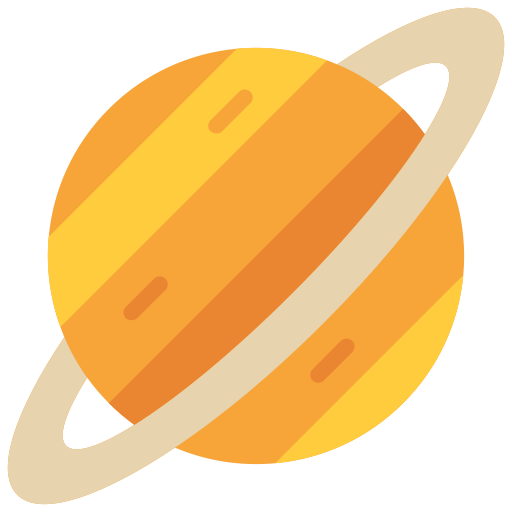
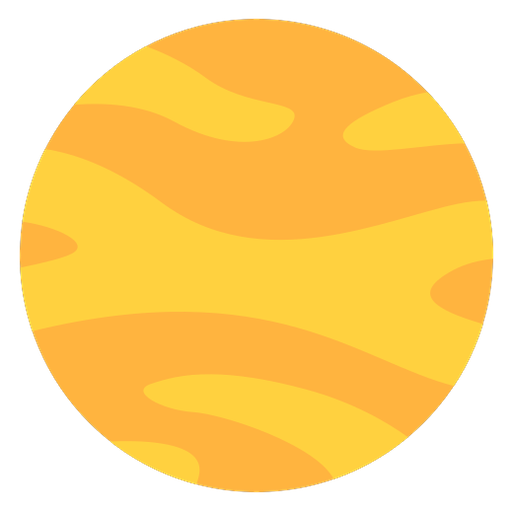
gli anelli di saturno e urano

diff --git a/giochi/slot/slot.py b/giochi/slot/slot.py
@@ -633,10 +633,28 @@ def tema():
     return B.CFG.get("slot_tema", "classica")
 
 
+NUDE = {}
+
+
 def figura(nome, misura):
-    """Il disegno di un simbolo, della misura voluta. Se la PNG del tema
-    non c'e' si disegna un segnaposto: cosi' la macchina si prova anche
-    senza grafica."""
+    """Il disegno di un simbolo come si vede nel gioco: la palla con il
+    suo anello, se ne ha uno."""
+    chiave = (tema(), nome, misura)
+    if chiave in NUDE:
+        return NUDE[chiave]
+    if not anello_di(nome):
+        NUDE[chiave] = figura_nuda(nome, misura)
+        return NUDE[chiave]
+    palla = figura_nuda(nome, misura_palla(nome, misura))
+    NUDE[chiave] = con_anello(nome, palla, misura)
+    return NUDE[chiave]
+
+
+def figura_nuda(nome, misura):
+    """La palla e basta, senza anello: e' da questa che si fanno i
+    fotogrammi della rotazione, se no girerebbe anche l'anello.
+    Se la PNG del tema non c'e' si disegna un segnaposto, cosi' la
+    macchina si prova anche senza grafica."""
     chiave = (tema(), nome, misura)
     if chiave in FIGURE:
         return FIGURE[chiave]
@@ -951,10 +969,7 @@ ANIMAZIONI = {
         "ferro": {"gira": 0.28},                 # Proxima, una stella
         "quadrifoglio": {"gira": 0.78},          # Giove, 9 ore e 55
         "carte": {"gira": 0.50},                 # Terra, 24 ore
-        # saturno per ora sta fermo: l'anello non e' parte della sfera e
-        # girando si accartoccia. Va staccato dalla palla e rimesso
-        # sopra, fermo -- si fa, ma e' un lavoro a parte
-        # "roulette": {"gira": 0.74},
+        "roulette": {"gira": 0.74},           # Saturno, 10 ore e mezza
         # la cometa non e' una sfera: fluttua e lascia la scia
         "fiches": {"onda": 0.05, "scia": 60, "verso": (-1.0, 0.30),
                    "colore": (150, 200, 255)},
@@ -968,11 +983,120 @@ def animazione(nome):
     return ANIMAZIONI.get(tema(), {}).get(nome)
 
 
+# ------------------------------------------------------------ gli anelli
+# Saturno e Urano si scaricano come palle lisce e l'anello glielo
+# disegniamo noi: se stesse dentro la PNG girerebbe insieme al pianeta,
+# che e' sbagliato. Cosi' invece resta fermo mentre la palla ruota.
+#   fuori/dentro  dove comincia e dove finisce, in raggi del pianeta
+#   schiaccia     quanto e' di taglio (0 = visto di spigolo, 1 = di faccia)
+#   inclina       di quanti gradi e' storto. Urano e' coricato su un
+#                 fianco per davvero, quindi i suoi anelli sono verticali
+#   divisione     dove passa la riga vuota dentro l'anello (0 = nessuna)
+ANELLI = {
+    "nuova": {
+        "roulette": {"fuori": 2.15, "dentro": 1.30, "schiaccia": 0.44,
+                     "inclina": -11, "colore": (228, 206, 158),
+                     "opaco": 235, "divisione": 0.0},
+        "fiori": {"fuori": 1.72, "dentro": 1.34, "schiaccia": 0.30,
+                  "inclina": 80, "colore": (168, 202, 222),
+                  "opaco": 165, "divisione": 0.0},
+    },
+}
+
+
+def anello_di(nome):
+    return ANELLI.get(tema(), {}).get(nome)
+
+
+def centro_raggio(src):
+    """Dove sta la palla dentro l'immagine e quanto e' grossa: si misura
+    sul disegno, non sul bordo del file."""
+    w, h = src.get_size()
+    try:
+        import numpy as np
+        a = pygame.surfarray.array_alpha(src)
+        col = np.where(a.max(axis=1) > 8)[0]
+        rig = np.where(a.max(axis=0) > 8)[0]
+        if len(col) and len(rig):
+            return ((col[0] + col[-1]) / 2.0, (rig[0] + rig[-1]) / 2.0,
+                    max(col[-1] - col[0], rig[-1] - rig[0]) / 2.0 + 0.5)
+    except (ImportError, ValueError, pygame.error):
+        pass
+    return ((w - 1) / 2.0, (h - 1) / 2.0, min(w, h) / 2.0)
+
+
+ANELLI_FATTI = {}
+
+
+def anello_pezzi(nome, misura, R):
+    """L'anello in due pezzi: quello che passa DIETRO al pianeta e quello
+    che passa DAVANTI. E' la separazione che lo fa sembrare un anello e
+    non un cerchio appiccicato sopra."""
+    d = anello_di(nome)
+    chiave = (tema(), nome, misura, int(R))
+    if chiave in ANELLI_FATTI:
+        return ANELLI_FATTI[chiave]
+    if not d:
+        ANELLI_FATTI[chiave] = None
+        return None
+    K = 4                                   # si disegna in grande
+    L = max(misura) * K
+    piano = pygame.Surface((L, L), pygame.SRCALPHA)
+    m = L // 2
+    a_f, a_d, sch = R * d["fuori"] * K, R * d["dentro"] * K, d["schiaccia"]
+    col = tuple(d["colore"])
+    pygame.draw.ellipse(piano, col + (d.get("opaco", 235),),
+                        pygame.Rect(m - a_f, m - a_f * sch,
+                                    a_f * 2, a_f * sch * 2))
+    if d.get("divisione"):
+        q = a_d + (a_f - a_d) * d["divisione"]
+        pygame.draw.ellipse(piano, (0, 0, 0, 0),
+                            pygame.Rect(m - q, m - q * sch, q * 2, q * sch * 2),
+                            max(2 * K, int((a_f - a_d) * 0.13)))
+    pygame.draw.ellipse(piano, (0, 0, 0, 0),
+                        pygame.Rect(m - a_d, m - a_d * sch,
+                                    a_d * 2, a_d * sch * 2))
+    pezzi = []
+    for alto, fondo in ((0, m), (m, L)):
+        mezzo = pygame.Surface((L, L), pygame.SRCALPHA)
+        mezzo.blit(piano, (0, alto), pygame.Rect(0, alto, L, fondo - alto))
+        mezzo = pygame.transform.rotozoom(mezzo, d.get("inclina", 0), 1.0)
+        mezzo = pygame.transform.smoothscale(
+            mezzo, (max(1, mezzo.get_width() // K),
+                    max(1, mezzo.get_height() // K)))
+        pezzi.append(mezzo)
+    ANELLI_FATTI[chiave] = (pezzi[0], pezzi[1])
+    return ANELLI_FATTI[chiave]
+
+
+def con_anello(nome, palla, misura):
+    """La palla con l'anello intorno, dentro una casella di quella
+    misura: prima il pezzo di dietro, poi la palla, poi quello davanti."""
+    _cx, _cy, R = centro_raggio(palla)
+    pezzi = anello_pezzi(nome, misura, R)
+    if not pezzi:
+        return palla
+    fuori = pygame.Surface(misura, pygame.SRCALPHA)
+    mezzo = (misura[0] // 2, misura[1] // 2)
+    fuori.blit(pezzi[0], pezzi[0].get_rect(center=mezzo))
+    fuori.blit(palla, palla.get_rect(center=mezzo))
+    fuori.blit(pezzi[1], pezzi[1].get_rect(center=mezzo))
+    return fuori
+
+
+def misura_palla(nome, misura):
+    """Quanto viene grande la palla quando ha un anello: si stringe,
+    perche' l'anello deve starci dentro alla casella."""
+    d = anello_di(nome)
+    if not d:
+        return misura
+    k = 1.0 / (d["fuori"] * 1.02)
+    return (max(4, int(misura[0] * k)), max(4, int(misura[1] * k)))
+
+
 GIRI = {}
-# Quanti fotogrammi fanno un giro completo. Tanti: il pianeta gira
-# piano, e con pochi fotogrammi si vedrebbe scattare. A centoventi, un
-# pianeta che ci mette due secondi a girare cambia disegno sessanta
-# volte al secondo, cioe' fluido quanto lo schermo.
+# Quanti fotogrammi fanno un giro completo. Tanti: il pianeta gira piano,
+# e con pochi fotogrammi si vedrebbe scattare.
 QUANTI_GIRO = 120
 DENTRO = 0.84               # da quanto dentro il disco si pesca il colore
 
@@ -998,7 +1122,9 @@ def frames_giro(nome, misura):
     except ImportError:
         GIRI[chiave] = None
         return None
-    src = figura(nome, misura)
+    # se ha l'anello la palla e' piu' piccola della casella: si fanno i
+    # fotogrammi della palla e l'anello si rimette sopra alla fine
+    src = figura_nuda(nome, misura_palla(nome, misura))
     w, h = src.get_size()
     try:
         rgb = pygame.surfarray.array3d(src).astype(np.float32)
@@ -1076,6 +1202,10 @@ def frames_giro(nome, misura):
         sup = pygame.Surface((w, h), pygame.SRCALPHA)
         pygame.surfarray.blit_array(sup, q.astype(np.uint8))
         pygame.surfarray.pixels_alpha(sup)[:, :] = maschera
+        # l'anello si rimette sopra a giro fatto: sta fermo mentre la
+        # palla ruota sotto, che e' il punto di tutta la faccenda
+        if anello_di(nome):
+            sup = con_anello(nome, sup, misura)
         fuori.append(sup)
     GIRI[chiave] = fuori
     return fuori
